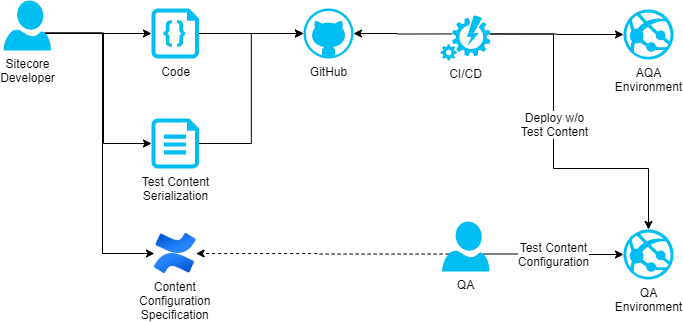
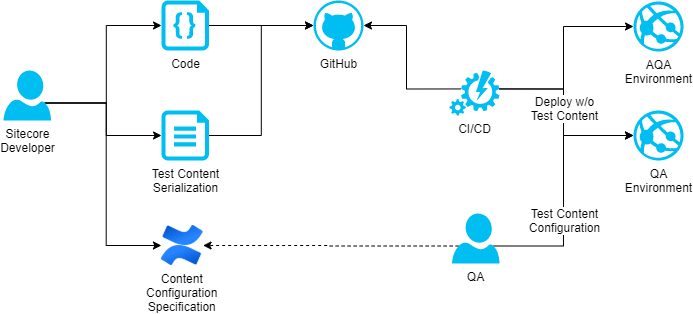
Content deployment process has been added

Changed region(s): [[0.0, 0.0, 1.0, 0.7739], [0.1537, 0.6592, 1.0, 1.0]]

diff --git a/content/development/04-content-deployment-process.md b/content/development/04-content-deployment-process.md
@@ -1,30 +1,56 @@
 ---
 title: "Content Deployment Process"
 metaTitle: "Content Deployment Process"
-metaDescription: ""
+metaDescription: "Defining the right content deployment process is important on the project. It affects perfomance of the team members including developers and qa engineers. Choosing the right approach can improve product quality and team velocity."
 ---
+
+Defining the right content deployment process is important on the project. It affects perfomance of the team members including developers and QA engineers. Choosing the right approach can improve product quality and team velocity.
+
+Content in Sitecore is stored under the `/sitecore/content` and `/sitecore/media library` sections.
+
+All custom items under `/sitecore/layout`, `/sitecore/system`, `/sitecore/templates` should be synced across all environments and not be available for content editors by default.
 
 ![Development Process](/images/content-deployment-process.png)
 
-## Content Workflow for Items in Development
+## Content Development and Deployment Workflow 
 
-1. A Sitecore developer prepares test content and content configuration specification together with code changes.
-2. All Sitecore developers sync and deploy test content locally for consistency and make all features available without any additional configuration.
-3. CI/CD instance builds and deploys code and a test content on the Integration environment. 
-4. Auto tests are run on the Integration environment (AAT). Automation approach is described here 03 - Automation Approach
-5. CI/CD instance builds and deploys code on Testing environment. Then QA manually configures components using the specification a developer prepared for the feature.
-6. CI/CD instance builds and deploys code on UAT environment. Then QA manually configures components using the specification a developer prepared for the feature.
-7. CI/CD instance builds and deploys code on Production environment. Then GE content team manually configures components using the specification a developer prepared for the feature and create content as needed.
+1. *Sitecore developer* in addition to code changes prepares test content and commits it to the **source control** and preapares content configuration specification in the project wiki.
+1. *Sitecore developers* sync and deploy test content in **local** environments from the source control.
+1. CD deploys code and test content on **AQA** environment.
+1. CD deploys code on **QA** environment. *QA engineer* manually configures components using specifications prepared by developers.
+1. CI/CD builds and deploys code on the **UAT** environment. Then the *client* manually configures components using the specification the development team provided.
+1. CI/CD builds and deploys code on the **Production** environment. Then *content managers* manually configures components using the specification the development team provided.
+
+### Sync Rules
+All items in Sitecore are overwritted with items from the source control after a deployment on **Local**, **Development** and **AQA** environments. 
+
+Only new items are deployed from the source control into Sitecore on the **QA**, **UAT**, **Production** environments.
+
+### Exceptions
+There are some exceptions in this process.
+
+1. The first-level content structure is synced across all the environments:
+
+    * sitecore
+        * Content
+        * Site
+            * Home
+            * Settings
+            * Global
+
+1. `Dictionary/*` and `Settings/*` items are synced across all the environments.
+
+1. First-level children items under `Global/*` are synced as well. 
 
 ### Benefits
-Content is synced across all developer's environment.
+⚖ Synced content across all local and AQA environments brings consistency and makes all features available without any manual configuration.
 
-### Issues
-Auto UI tests rely on static state of the content.
+📄 Taking into account configuration of some components are not trivial task from configuration point of view all components are delivered along with configuration specification.
 
-### Content Synchronization
-* Content creation should be executed directly in production environment and synchronized into UAT and Beta environments after a release is made.
-* For Service Experience, where the content will not exist in Production initially, the content should be created in Beta and a package export should be generated, so content is not lost in case of a synchronization from Production is made. After Service Experience is in Production, then this step is not required anymore.
-* The synchronization to Beta and UAT environment should be done via database backup and restore (typically just the master database, but in rare cases, the core database is also needed), but can also be done manually over package export when needed.
-* Content synchronization from Production to Beta and UAT environments need to be aligned with the delivery team to avoid any content override.
-* Lower environments should only for specific reasons synchronize content from Production via database backup and restore. Most of the cases, it should only be done via package export.
+🧪 Components and related documentation are tested together and delivered to content editors.
+
+### Auto Tests
+Tests on the AQA environemnt should not rely on static state of the content but include scenarious for various content creation and configuration.
+
+## Content Synchronization from Production
+Taking into account that production content creation is executed directly in production environment the delivery process should include the process of production content synchronization into lower environments including UAT, QA, AQA, Local after a release is made.
